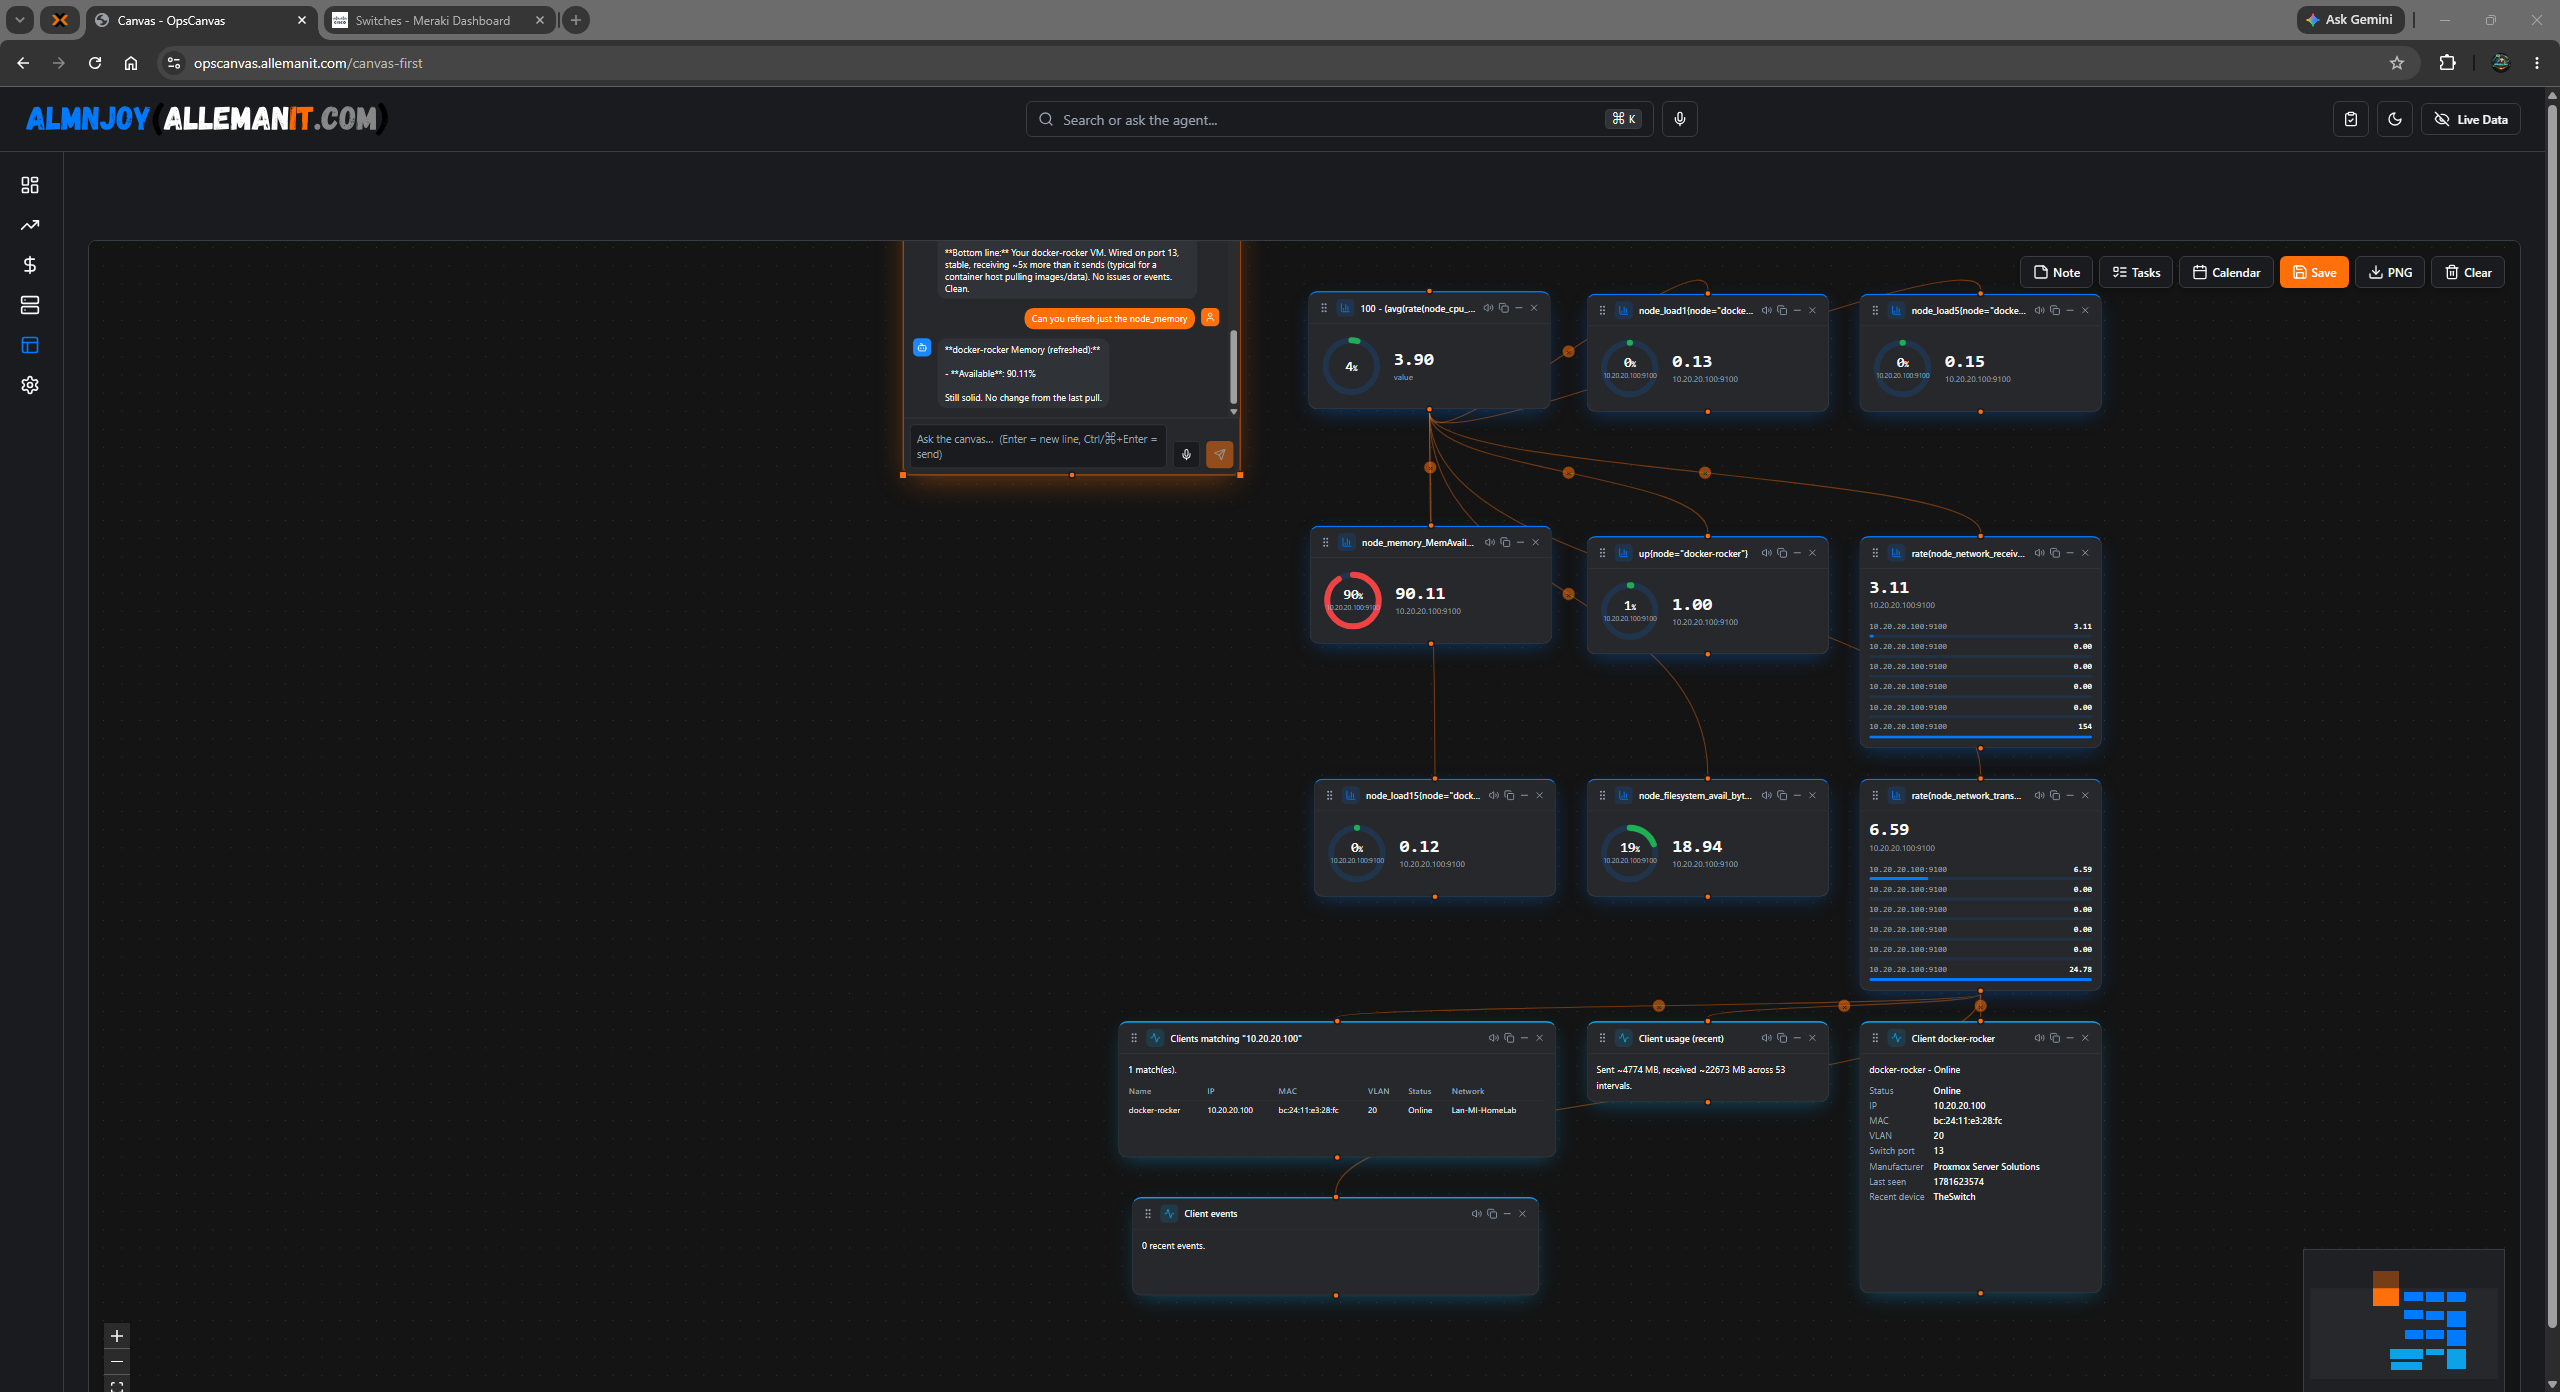
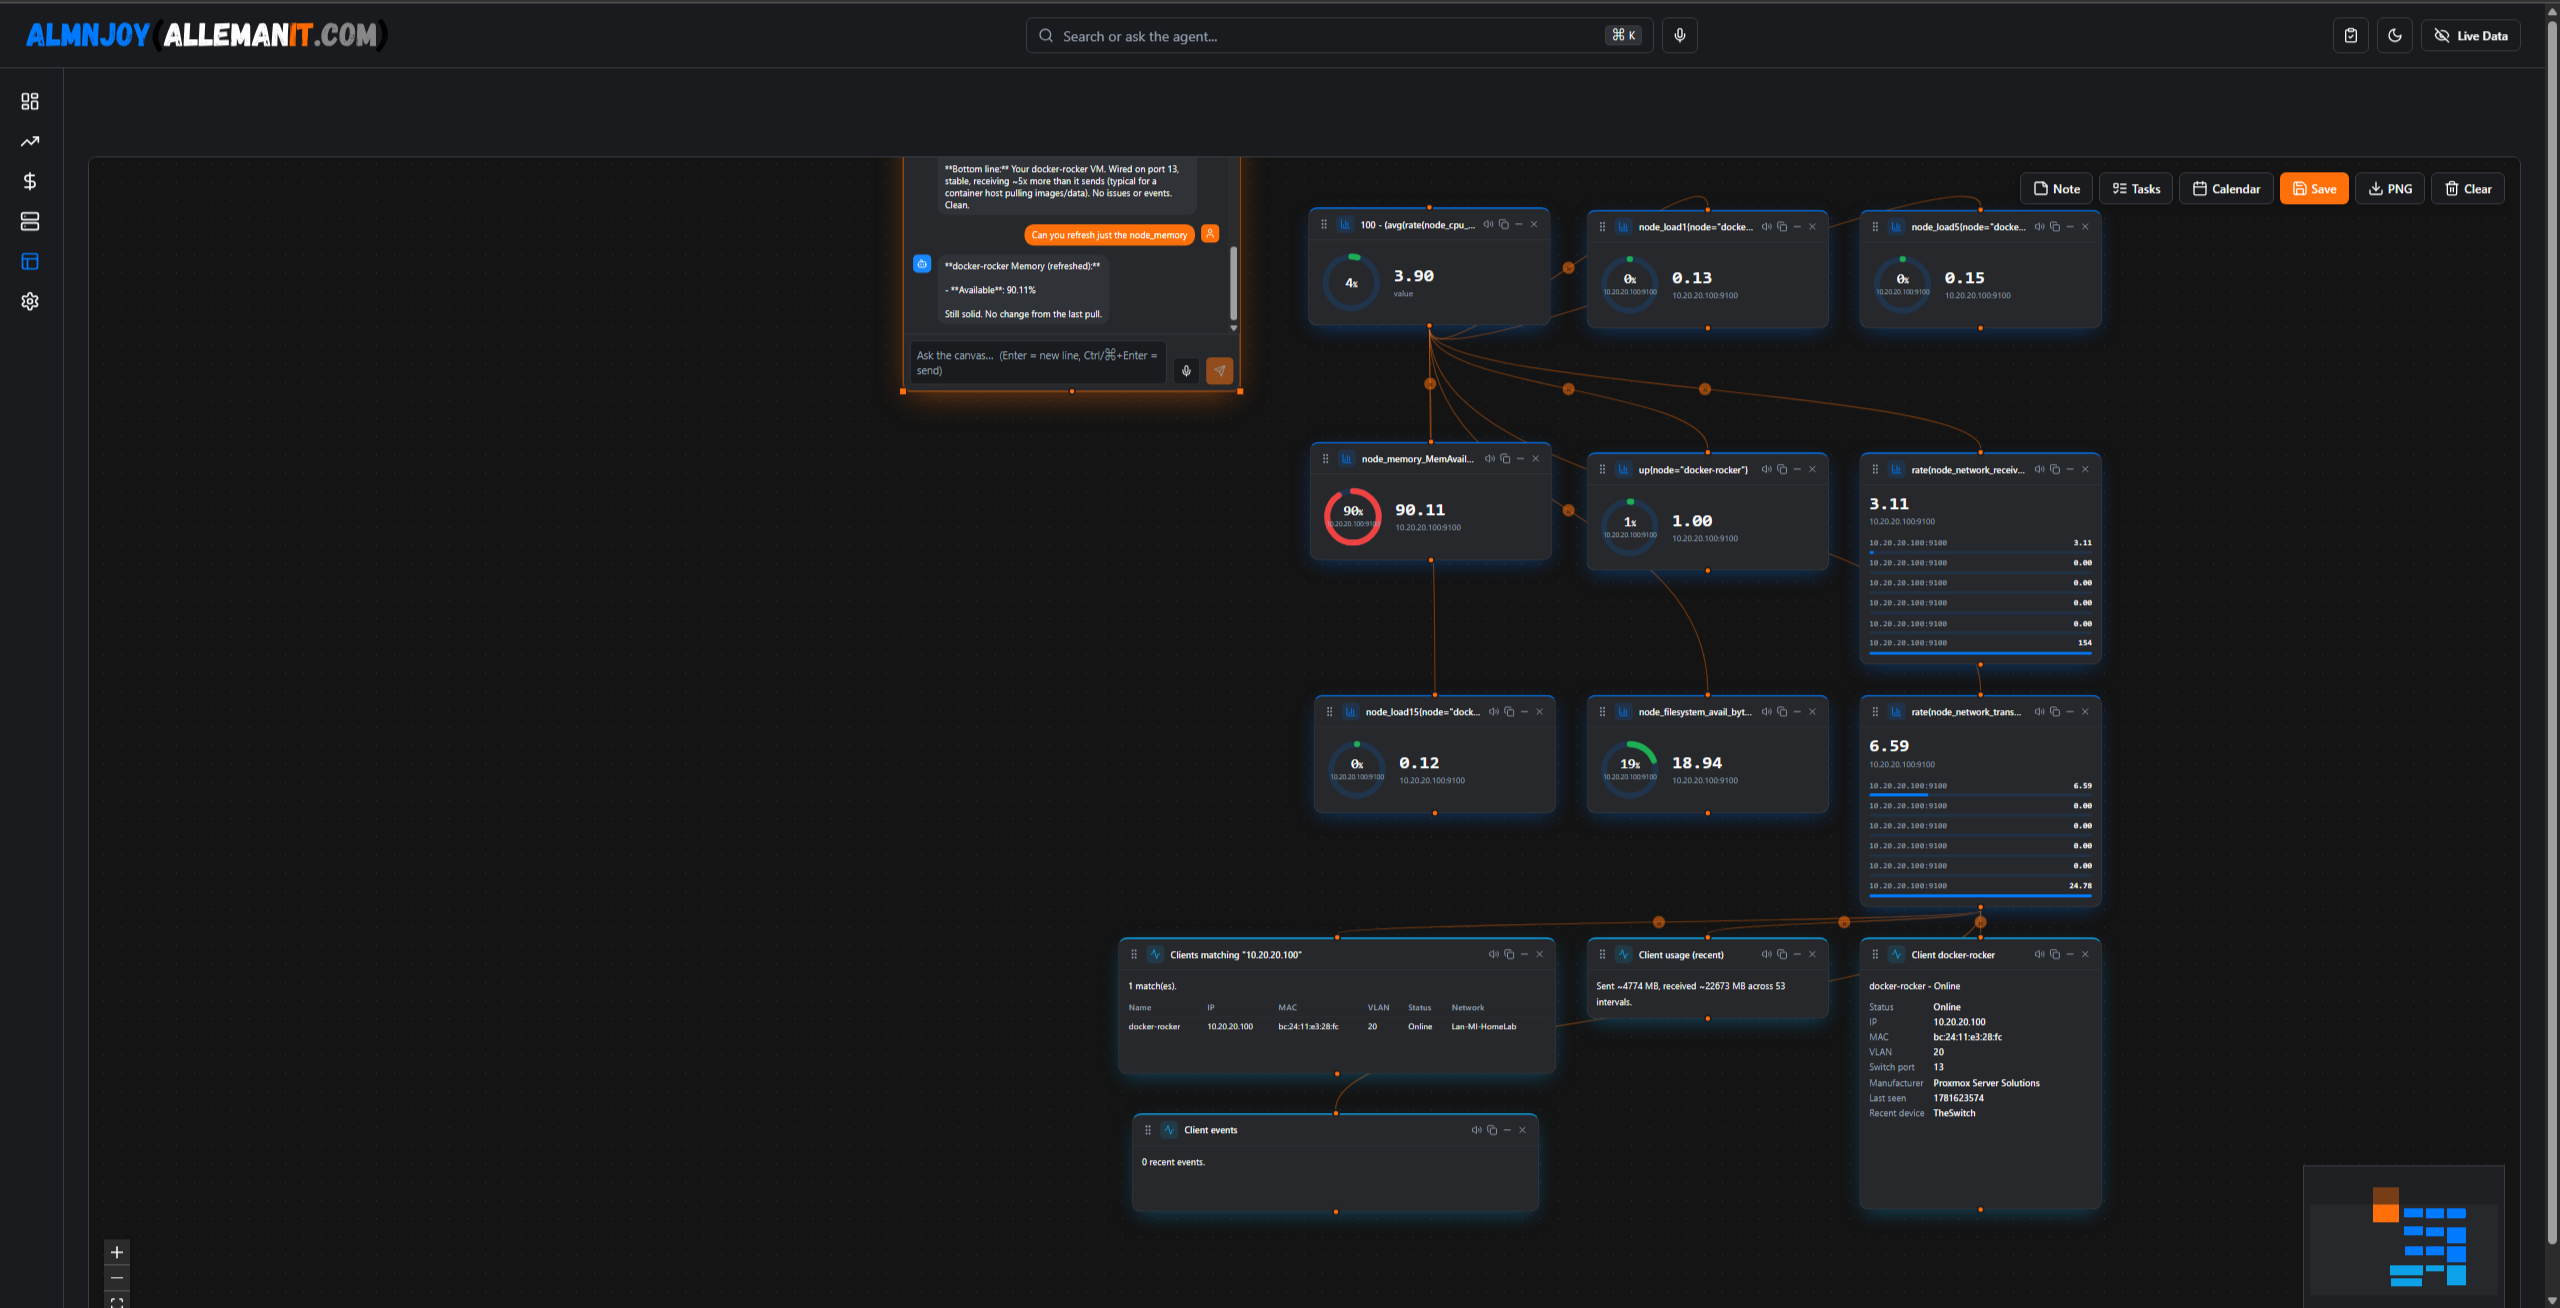
MadeForMeAI + homelab pages: copy, images, galleries, source links; shorten hero

diff --git a/src/content/config.ts b/src/content/config.ts
@@ -10,7 +10,9 @@ const projects = defineCollection({
     stack: z.array(z.string()).default([]),
     liveUrl: z.string().optional(),
     repoUrl: z.string().optional(),
+    repos: z.array(z.object({ url: z.string(), label: z.string() })).default([]),
     image: z.string().optional(),
+    cardImage: z.string().optional(),
     gallery: z.array(z.object({ src: z.string(), caption: z.string().optional() })).default([]),
     featured: z.boolean().default(false),
     listed: z.boolean().default(true),

diff --git a/src/content/projects/madeformeai.md b/src/content/projects/madeformeai.md
@@ -1,24 +1,44 @@
 ---
 title: "MadeForMeAI"
-summary: "A multi-tenant AI workspace SaaS. Each customer gets an isolated pod on Kubernetes, with single sign-on and billing wired end to end."
+summary: "A multi-tenant AI workspace SaaS. Every customer gets their own isolated OpenClaw agent on its own Kubernetes pod, with single sign-on and billing wired end to end."
 status: "Live"
 featured: true
 order: 3
 tags: ["SaaS", "Kubernetes", "AI"]
-stack: ["K3s", "Authentik", "Stripe", "Hetzner", "containerd", "GitHub Actions"]
+stack: ["K3s", "Docker", "OpenClaw", "Authentik", "Stripe", "Hetzner", "GitHub Actions"]
 liveUrl: "https://madeformeai.com"
+repos:
+  - url: "https://github.com/almnjoy/MadeForMeAI-Provisioner-Alpha"
+    label: "Provisioner (Alpha)"
+  - url: "https://github.com/almnjoy/MadeForMeAI-Provisioner-Phase2"
+    label: "Provisioner (Phase 2)"
+  - url: "https://github.com/almnjoy/madeforMeAI-openclaw-template"
+    label: "OpenClaw template"
+image: "/projects/madeformeai/intro.png"
+cardImage: "/projects/madeformeai/architecture.png"
+gallery:
+  - src: "/projects/madeformeai/dashboard.png"
+    caption: "The user dashboard. Your AI, your account, and one-tap access from any device."
+  - src: "/projects/madeformeai/chat.png"
+    caption: "The agent itself: a private OpenClaw workspace running for each user."
+  - src: "/projects/madeformeai/admin.png"
+    caption: "Behind the scenes: live users, running pods, and node distribution across the cluster."
 ---
 
-MadeForMeAI gives each user their own private AI workspace. Behind the scenes that means real multi-tenancy: isolated per-user pods, SSO, and a billing pipeline that provisions and tears down on its own.
+MadeForMeAI was the first thing I tried to take public. The idea was simple: give friends, family, and early users their own private AI, not a shared chatbot everyone logs into. Each person gets an isolated OpenClaw agent with their own files, prompts, plugins, and settings, built to feel like an assistant made for them.
 
-This is also the project I learned Kubernetes on. The architecture went through five or six iterations, Docker first, then other approaches, before landing on K3s across multiple servers in the cloud. I could talk about this one for hours; the short version is that every piece of it taught me something I now use everywhere else.
+## A crash course in running a SaaS
 
-## What makes it interesting
+It started as an AI project and quickly turned into operating a real platform. Prompts and agents were the easy part. The actual work was everything around them: multi-service deployments, databases, authentication, user management, billing, container images and versioning, monitoring, and keeping costs in check. For the first time I wasn't building a tool for myself, I was running something other people depended on.
 
-- **Real isolation.** Every customer runs in their own namespace and pod, not a shared app with row-level filtering.
-- **SSO and billing as one flow.** Sign up, pay, get provisioned, all automatic.
-- **Runs live.** Paying users on day-to-day workloads.
+## The architecture
 
-## The build
+The current design took five or six iterations to land on. Docker first, then a few other approaches, before settling on K3s across multiple servers in the cloud. A controller node runs the provisioner, the database, and Authentik for identity. When someone signs up and pays through Stripe, the provisioner spins up their own pod on a worker node automatically, and tears it down the same way. Every user is fully isolated: their own pod, their own storage, their own agent. No shared app with row-level filtering.
 
-K3s on Hetzner, per-user namespaces, Authentik for identity, Stripe for billing, images shipped through CI to a private registry.
+## What it taught me the hard way
+
+Manual deployments are fragile, and I learned that by breaking them. The one that stuck: I accidentally exposed my API keys and environment variables, which meant rotating every key, rebuilding configs, and recovering the affected systems. Annoying at the time, but it taught me more about secrets and operational discipline than any tutorial. This is also where I got serious about version control: real Git workflows, pushing and pulling safely, reviewing the code AI wrote for me, and auditing what actually shipped.
+
+## The part I didn't expect
+
+Building it was only half the job. Getting people to use it is a different skill, and one I'm still working on: marketing, branding, positioning, onboarding, and explaining why someone would want this in the first place. A lot of what I learned here, technical and not, went straight into Brain Map and everything I've built since.

diff --git a/src/content/projects/homelab.md b/src/content/projects/homelab.md
@@ -5,19 +5,33 @@ status: "Live"
 featured: true
 order: 2
 tags: ["Infrastructure", "Networking", "Observability"]
-stack: ["Proxmox", "Cisco Meraki", "Grafana", "Loki", "Prometheus", "Proxmox Backup Server", "Twingate"]
+stack: ["Proxmox", "Cisco Meraki", "Docker", "Kubernetes", "Grafana / Loki / Prometheus", "Proxmox Backup Server", "Authentik", "Twingate", "Hetzner"]
+image: "/projects/homelab/header.png"
+gallery:
+  - src: "/projects/homelab/physical.jpg"
+    caption: "The physical stack. An open-frame rack, scavenged and upgraded over years."
+  - src: "/projects/homelab/old-design.png"
+    caption: "An earlier network map: VLANs, Meraki WiFi, Proxmox, and Plex across the house."
+  - src: "/projects/homelab/docs.png"
+    caption: "The documentation hub. Every box, service, and where the passwords live, written down."
 ---
 
-This started with an old Juniper switch and whatever I could scavenge: a retired Dell server, a Raspberry Pi, an old gaming server, an old gaming laptop, two mini Windows PCs, other random stuff. Working at Meraki brought real gear into the rack piece by piece, and every upgrade got earned by something breaking or something new I wanted to run.
+It started with an old Juniper switch and a retired server running ESXi, plus whatever else I could scavenge: a Dell server, a Raspberry Pi, an old gaming rig, a couple of mini Windows PCs. From there I worked through the stack the hard way. ESXi, then Proxmox, TrueNAS, iSCSI, different RAID setups. Drives died, services crashed, and I rebuilt them more than once. That troubleshooting is the same muscle I use at work every day.
 
-Today it is a lab I run real workloads on: a hypervisor, a two-site network with VLAN segmentation, a dedicated backup server, VPNs to and from the cloud, and monitoring on all of it.
+## How it grew
 
-## What makes it interesting
+Every upgrade got earned. As I learned something new or broke something old, I added hardware and repurposed the rest. Working at Meraki brought real switches, routers, and access points into the rack piece by piece. A Raspberry Pi became a backup server. A mini Windows box with GPU passthrough became the Plex server. When I bought a new desktop, the old one didn't get shelved: I upgraded the motherboard, CPU, and drives and added a second NIC, so management and server traffic run on separate links with room to spare for more VMs.
 
-- **One pane of glass.** Grafana, Loki, Prometheus, and around 40 uptime monitors cover every node, container, and link.
-- **Backups that are real.** Proxmox Backup Server captures VMs on a schedule, verified.
-- **Hybrid by design.** A Twingate overlay stitches the homelab to Hetzner cloud nodes so cloud workloads ship logs and metrics home.
+## What runs on it now
 
-## The build
+- **A real hypervisor.** A Proxmox host carries the VMs: a SQL server, a local LLM, and two Ubuntu boxes running Docker, one for services and one for projects, kept separate so I can test without breaking what works.
+- **A two-site network.** Cisco Meraki across two locations with VLAN segmentation, so the lab is routed and segmented like a small enterprise.
+- **Monitoring on everything.** Grafana, Loki, Prometheus, and around 40 uptime checks cover every node, container, and link.
 
-Proxmox host with several VMs, Cisco Meraki across two sites, a full Grafana/Loki/Prometheus/Alloy stack, and a Twingate mesh to the cloud. Most of it is provisioned as code.
+## Hybrid cloud
+
+The lab doesn't stop at my walls. The cloud side started as a single Hostinger VPS running n8n, got repurposed to host Authentik, and eventually moved to Hetzner Cloud, where it now runs four servers: a three-node Kubernetes cluster and a standalone Docker host. It all rides the same overlay as home, stitched together with Twingate and VPNs to and from the cloud. A lot of this started from practical problems, like reaching my services remotely or working around Netflix's password-sharing crackdown, and grew into real site-to-site and cloud-to-home networking.
+
+## Documentation and backups
+
+The thing that keeps it sane is documentation. Every service gets its logins, naming, location, and dependencies written down, because troubleshooting blind is miserable. That discipline is why wiring in a new cloud box takes minutes: same standards, same design. The current focus is backups, a clean path from the Proxmox hosts to a dedicated backup server to the cloud. Building it was never the hard part. Operating, documenting, and recovering it is where I actually learned.